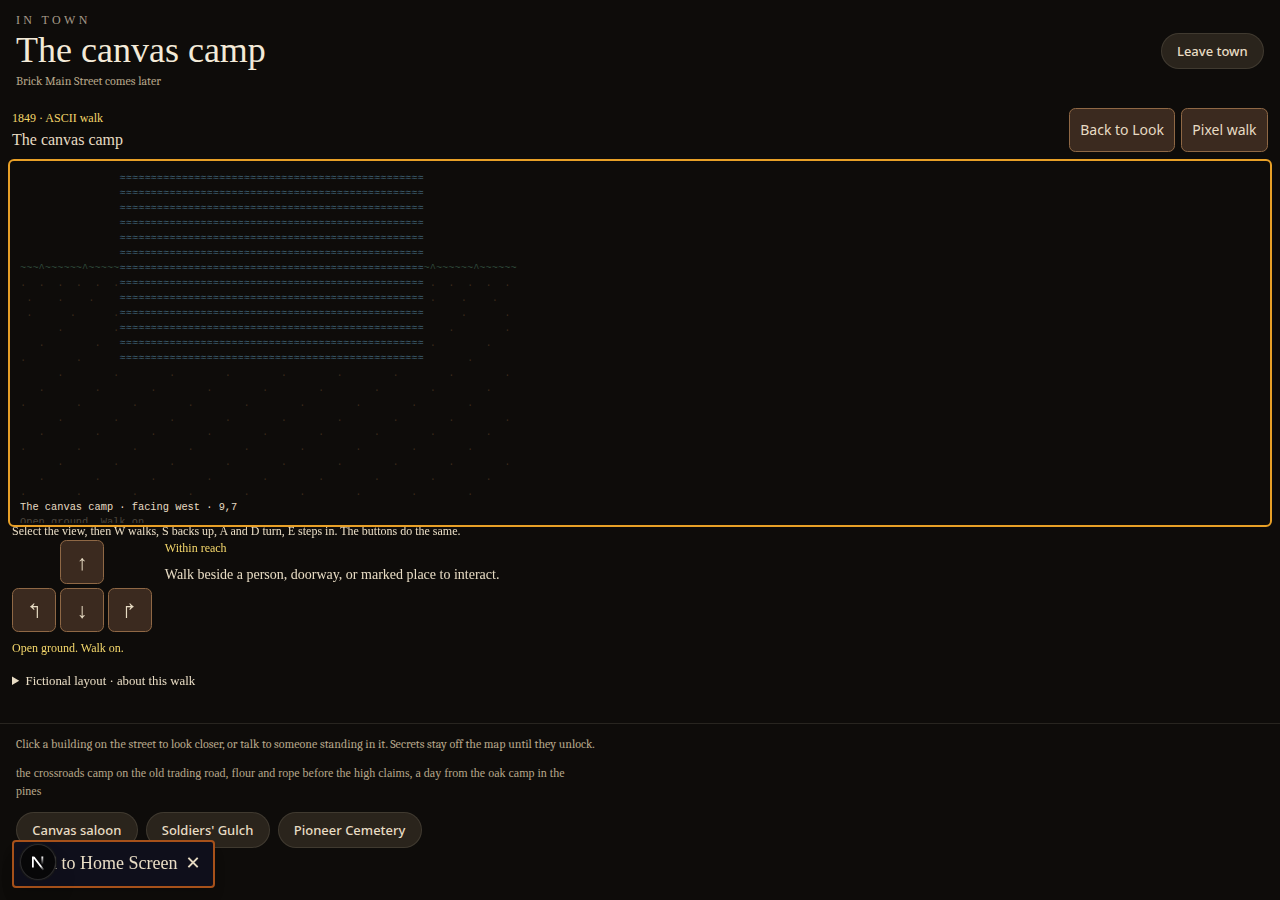
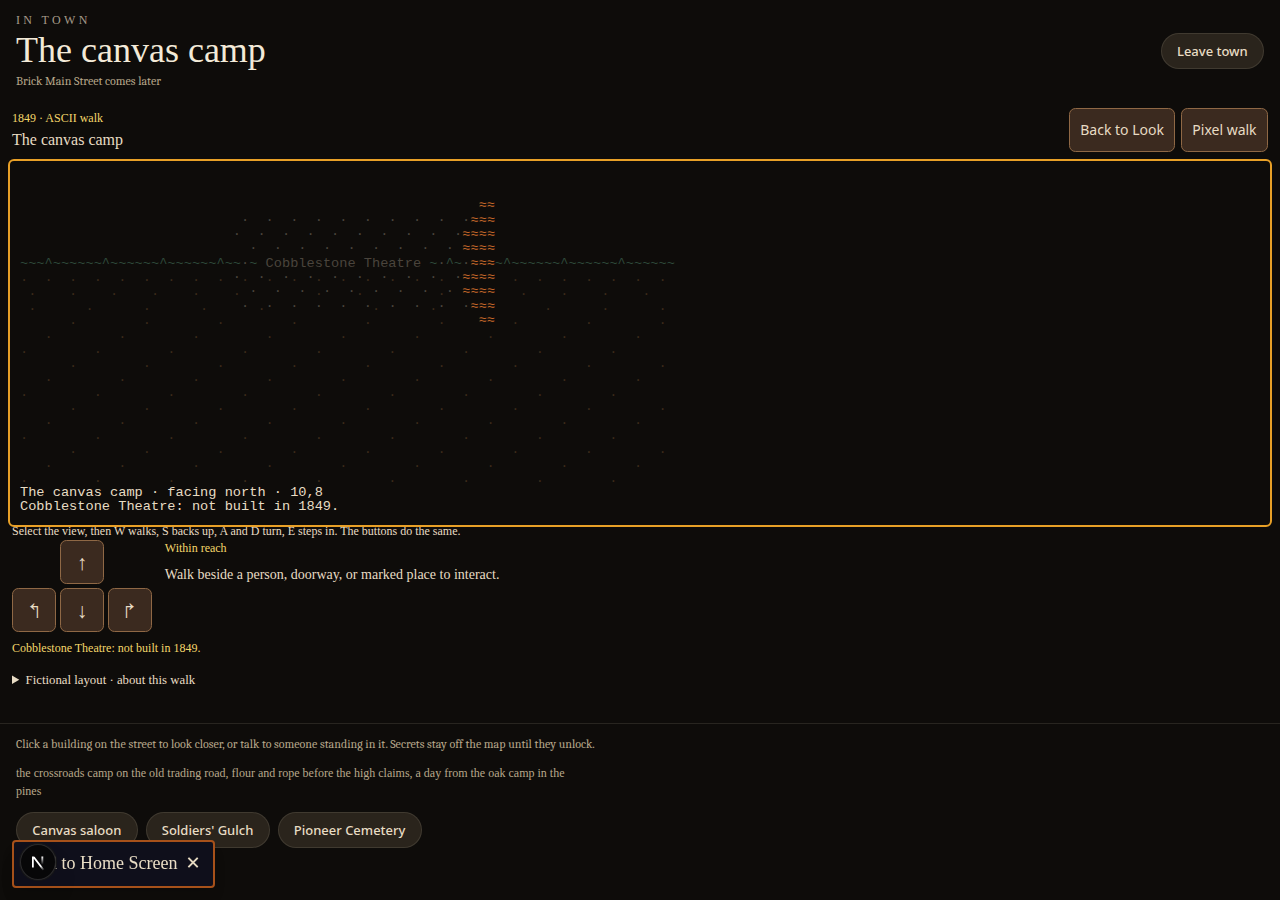
fix(explore): show the whole ascii2 frame, and pin the claims two labs broke
Grok and Codex reviewed PR #94 read-only (neoma-council run
20260918_082706_bobr-pr94-review). Every finding was re-checked before acting.

- The frame's last row, the caption that names the year, was hidden: 16px
  on desktop, 103px on a phone. `.visual64-shell span { line-height: 1.45 }`
  overrode the frame's 1.05 on every row span. Spans now inherit the frame's
  line height inline, and glyph size and box height share one budget.
- The browser check measured the buttons but never the frame. It now asks
  what is painted at the last row (6 FAILs before the fix, 0 after), holds
  the walk to 5 tiles, shoots the absence line while it is showing, and
  drives West Point too: 58 checks, 0 findings.
- The parity test now pins 5 refusals across creek, fire, canvas and a
  person, ending at 8,4. The West Point fixture is asserted, not `if`-guarded.
  Both mutants passed the old test and fail the new one.
- scripts/ascii2-mutants.mjs + a behaviour-fingerprint probe, committed so
  the count can be re-run: 8 scored, 8 caught, 0 no-op. Last night's 15/15
  came from a harness that no longer exists and is marked unreproducible.
- Notes: corrected "the camera owns no geometry" (ghost placement is an
  authored overlay); traced brief 6.2 (explorer state has no cloud path, so
  it is a product decision, not a field add); recorded what was refuted
  (Codex's npm test failure was Node 18 against an engines floor of 20.9).

Changed region(s): [[0.0938, 0.1867, 0.4062, 0.4044], [0.0, 0.5289, 0.375, 0.6533], [0.0, 0.7156, 0.1562, 0.7778]]

diff --git a/src/components/explore/Ascii2Viewport.tsx b/src/components/explore/Ascii2Viewport.tsx
@@ -19,11 +19,14 @@ import {
   turnHeading,
   FRAME_COLS,
   FRAME_COLS_NARROW,
+  FRAME_ROWS,
   type Heading,
 } from '@/lib/ascii2Walk'
 import { ascii2TownFor } from '@/lib/ascii2Towns'
 import { adjacentTownWalkTargets, townWalkMap, type TownWalkSnapshot, type TownWalkTarget } from '@/lib/townWalk'
 import styles from './TownWalkScene.module.css'
+
+const LINE_HEIGHT = 1.05
 
 export interface Ascii2ViewportProps {
   snapshot: TownWalkSnapshot
@@ -88,6 +91,11 @@ export function Ascii2Viewport({
     (target.kind === 'npc' ? allowedNpcIds.includes(target.npcId) : allowedAttractionIds.includes(target.attractionId))
 
   const frame = renderFrame(scene, snapshot.position, heading, allowed, { cols })
+  // One height budget for the box AND the glyphs, so 24 rows always fit the box
+  // they are drawn in. Two budgets that merely agreed on desktop hid 16px of frame
+  // there and 103px on a phone — the caption row that names the year among it.
+  const budgetVh = cols === FRAME_COLS_NARROW ? 28 : 40
+  const fontSize = `clamp(6px, min(${(95 / cols).toFixed(2)}vw, calc((${budgetVh}vh - 1rem) / ${(FRAME_ROWS * LINE_HEIGHT).toFixed(2)})), 15px)`
   const nearby = adjacentTownWalkTargets(scene.map, snapshot.position).filter(allowed)
 
   const walk = (back = false) => {
@@ -185,7 +193,8 @@ export function Ascii2Viewport({
           data-heading={heading}
           data-x={snapshot.position.x}
           data-y={snapshot.position.y}
-          className="max-h-[28vh] w-full overflow-auto bg-[#0e0c0a] p-2 outline-none sm:max-h-[40vh]"
+          className="w-full overflow-auto bg-[#0e0c0a] p-2 outline-none"
+          style={{ maxHeight: `${budgetVh}vh` }}
         >
           {/*
             The frame is 80x24 of fixed geometry, so it must SCALE to the screen
@@ -196,8 +205,8 @@ export function Ascii2Viewport({
             phone, which the browser check now measures directly.
           */}
           <pre
-            className="m-0 font-mono leading-[1.05]"
-            style={{ fontSize: `clamp(6px, min(${(95 / cols).toFixed(2)}vw, 1.15vh), 15px)` }}
+            className="m-0 font-mono"
+            style={{ fontSize, lineHeight: LINE_HEIGHT }}
             data-cols={cols}
             aria-hidden="true"
           >
@@ -207,10 +216,15 @@ export function Ascii2Viewport({
               copy — with block spans the whole 24-row frame copied out as one
               run-on line. (Caught by the browser check, which counted 1 row.)
             */}
+            {/*
+              `lineHeight: inherit` on every span, inline so it outranks the global
+              `.visual64-shell span { line-height: 1.45 }` (globals.css), which was
+              silently making each row 1.45x the font instead of the frame's 1.05x.
+            */}
             {frame.rows.map((row, r) => (
-              <span key={r}>
+              <span key={r} style={{ lineHeight: 'inherit' }}>
                 {mergeSpans(row).map((s, i) => (
-                  <span key={i} style={{ color: s.color }}>
+                  <span key={i} style={{ color: s.color, lineHeight: 'inherit' }}>
                     {s.text}
                   </span>
                 ))}

diff --git a/src/lib/ascii2Walk.test.ts b/src/lib/ascii2Walk.test.ts
@@ -98,14 +98,32 @@ for (const [townId, town] of Object.entries(ASCII2_TOWNS)) {
     'up', 'up', 'left', 'left', 'up', 'up', 'right', 'right', 'right',
     'down', 'down', 'left', 'up', 'up', 'up', 'left', 'left', 'down',
   ]
+  const step = { up: [0, -1], down: [0, 1], left: [-1, 0], right: [1, 0] } as const
   let pixel = { ...snap.position }
   let ascii = { ...snap.position }
+  const refusedBy: string[] = []
   keys.forEach((k, i) => {
+    const before = pixel
     pixel = stepTownWalk(map, pixel, k)
     ascii = ascii2Forward(scene, ascii, k).position
     assert.deepEqual(ascii, pixel, `presentations parted company at key ${i} (${k})`)
+    if (pixel.x === before.x && pixel.y === before.y) {
+      const into = { x: before.x + step[k][0], y: before.y + step[k][1] }
+      const tile = townWalkTileAt(map, into)
+      const npc = map.targets.some((t) => t.kind === 'npc' && t.position.x === into.x && t.position.y === into.y)
+      refusedBy.push(npc ? 'npc' : tile?.prop ?? tile?.terrain ?? 'edge')
+    }
   })
-  assert.notDeepEqual(pixel, snap.position, 'the parity walk must leave the spawn tile')
+  // The notes call this walk "not a stroll". Pin that, or a map edit can quietly
+  // turn it into one: a parity test that never hits an obstacle proves only that
+  // two callers agree on open ground.
+  assert.equal(refusedBy.length, 5, `the parity walk must be refused 5 times, was ${refusedBy.length}: ${refusedBy}`)
+  assert.deepEqual(
+    [...new Set(refusedBy)].sort(),
+    ['canvas', 'fire', 'npc', 'water'],
+    `the refusals must span creek, fire, canvas and a person: ${refusedBy}`,
+  )
+  assert.deepEqual(pixel, { x: 8, y: 4 }, 'the parity walk must end far from spawn, at 8,4')
 }
 
 // ---------------------------------------------------------------------------
@@ -442,9 +460,9 @@ function standSouthOf(scene: Ascii2Scene, id: string): { pos: { x: number; y: nu
   const road = wpScene.map.targets.find((t) => t.kind === 'attraction' && t.attractionId === 'wp_trail_camp')
   assert.ok(road, 'the pack road is a real 1849 target you can reach')
   const beside = { x: road!.position.x, y: road!.position.y + 1 }
-  if (isTownWalkPassable(wpScene.map, beside)) {
-    assert.equal(ascii2Look(wpScene, beside, 'up').kind, 'target', 'the pack road is enterable in 1849')
-  }
+  // An assertion, not an `if`: a guard that is false asserts nothing and still passes.
+  assert.ok(isTownWalkPassable(wpScene.map, beside), 'fixture needs open ground south of the pack road')
+  assert.equal(ascii2Look(wpScene, beside, 'up').kind, 'target', 'the pack road is enterable in 1849')
 }
 
 console.log('ascii2Walk tests passed')

diff --git a/scripts/ascii2-mutant-probe.ts b/scripts/ascii2-mutant-probe.ts
@@ -1,0 +1,42 @@
+/**
+ * ascii2-mutant-probe.ts — a behaviour fingerprint for scripts/ascii2-mutants.mjs.
+ *
+ * Prints one JSON line describing what the ascii2 rung DOES for a fixed set of
+ * inputs: every frame (glyphs AND colours, both widths), every walk outcome, the
+ * ghost placements, and the policy. A mutant that leaves this line unchanged did
+ * not change behaviour, so it is not scored — caught or not, it proved nothing.
+ */
+import { ABSENCE_BLOCKS_DEFAULT, ascii2Forward, ascii2Look, buildAscii2Scene, renderFrame, type Heading } from '../src/lib/ascii2Walk'
+import { ascii2TownFor } from '../src/lib/ascii2Towns'
+import { normalizeTownWalkSnapshot, type TownWalkTarget } from '../src/lib/townWalk'
+
+const headings: Heading[] = ['up', 'right', 'down', 'left']
+const out: unknown[] = [ABSENCE_BLOCKS_DEFAULT]
+for (const townId of ['volcano', 'west_point']) {
+  const snap = normalizeTownWalkSnapshot(townId, undefined)!
+  for (const opts of [{}, { absenceBlocks: true }] as { absenceBlocks?: boolean }[]) {
+    const scene = buildAscii2Scene(ascii2TownFor(townId)!, snap, opts)!
+    out.push(scene.ghosts.map((g) => [g.id, g.position.x, g.position.y]))
+    const onlyExits = (t: TownWalkTarget) => t.kind === 'exit'
+    for (let y = 0; y < scene.map.height; y++) {
+      for (let x = 0; x < scene.map.width; x++) {
+        for (const h of headings) {
+          const f = ascii2Forward(scene, { x, y }, h)
+          out.push([x, y, h, f.position.x, f.position.y, f.blocked ?? '', ascii2Look(scene, { x, y }, h).kind])
+          if ((x + y) % 3 === 0) {
+            for (const cols of [80, 40]) {
+              for (const allowed of [undefined, onlyExits]) {
+                const fr = renderFrame(scene, { x, y }, h, allowed, { cols })
+                out.push(fr.rows.map((r) => r.map((c) => c.ch + c.color).join('')).join('\n'))
+              }
+            }
+          }
+        }
+      }
+    }
+  }
+}
+const s = JSON.stringify(out)
+let hash = 0
+for (let i = 0; i < s.length; i++) hash = (Math.imul(hash, 31) + s.charCodeAt(i)) | 0
+console.log(JSON.stringify({ fingerprint: (hash >>> 0).toString(16), bytes: s.length }))

diff --git a/src/lib/ascii2Walk.ts b/src/lib/ascii2Walk.ts
@@ -3,7 +3,10 @@
  * camera on the 1849 camp. Pure module: no React, no DOM, no fetch.
  *
  * ONE WORLD, MANY PRESENTATIONS — this is the whole point of the ladder, and the
- * reason this file owns no geometry of its own. The world is `townWalk.ts`: the
+ * reason this file owns no MOVEMENT geometry of its own. It does own one overlay:
+ * `placeLaterSites` snaps each later site onto a passable tile of the camp, an
+ * authored position the pixel walk never draws (see its comment). Everything a
+ * player can collide with or enter is still `townWalk.ts`: the
  * authored 1849 tile map, its props, its collisions, its targets, its save
  * snapshot. TownWalkScene draws that world from above in pixels. This module
  * draws the SAME world from eye level in ASCII. Every step here goes through

diff --git a/docs/ASCII2_1849_LADDER_NOTES_20260917.md b/docs/ASCII2_1849_LADDER_NOTES_20260917.md
@@ -22,8 +22,12 @@ against — already carries an authored, sourced, tested 1849 walk for **exactly
 | `src/components/explore/TownWalkScene.tsx` | Draws that world **top-down in pixels** (SVG) |
 | `InteractiveTown` "Walk the camp" | Already wired, after Look, exactly as the 20260913 brief required |
 
-So this branch does **not** author a second geometry. `ascii2Walk.ts` is a **camera**: it draws the
-SAME `townWalk` map at eye level in colored ASCII, and every step goes through `stepTownWalk`. That
+So this branch does **not** author a second movement geometry. `ascii2Walk.ts` is a **camera**: it
+draws the SAME `townWalk` map at eye level in colored ASCII, and every step goes through
+`stepTownWalk`. **One overlay is its own** (corrected 2026-09-18 after Grok's review — the first
+wording said the camera owns no geometry, which was false): `placeLaterSites` snaps each later site's
+painted-pin percentage to the nearest passable, non-target tile. Those tiles are authored, not
+surveyed, and the pixel walk never draws them. Two land awkwardly — see §8. Camera-not-fork
 is the brief's own law — *"One world model. Four presentations… step down, never fork lore"* (§3) —
 applied to the world that actually exists on main rather than to the one the brief predicted.
 
@@ -71,10 +75,10 @@ in the first commit it was not.
 | Gate | Result |
 |---|---|
 | `tsc --noEmit` | clean |
-| `npm test` (full chain, incl. new `test:ascii2-walk`) | **exit 0** |
+| `npm test` (full chain, incl. new `test:ascii2-walk`) | **exit 0** — re-run 2026-09-18 on Node 20.19 (the repo's `engines` floor is 20.9; on `/usr/bin/node` 18 the chain dies at `test:local-backend` with `crypto is not defined`, which is the environment, not the code) |
 | `npm run lint` | **0 errors**, 460 warnings (all pre-existing; repo policy allows warnings) |
 | `npm run build` | **pass** |
-| Mutation suite, fingerprint-gated | **15 applied, 15 caught** |
+| Mutation suite, fingerprint-gated | **8 scored, 8 caught, 0 no-op** — `node scripts/ascii2-mutants.mjs`, committed 2026-09-18. The 2026-09-17 "15 applied, 15 caught" came from a harness that lived in a session scratch folder and is gone; that number is unreproducible and stands at `_conf=-1` |
 
 ### The mutation record, including the ones that escaped first
 
@@ -109,7 +113,9 @@ there.
 
 `scripts/ascii2-walk-browser-check.mjs` drives real headless Chrome through the ranch-house QR gate
 into Volcano, starts the pixel walk, steps down to the text walk, walks with the keyboard, and steps
-back up — asserting on what the page actually shows. **41 checks, 0 findings, 0 console errors.**
+back up — asserting on what the page actually shows. **41 checks, 0 findings, 0 console errors** on
+2026-09-18 early — and that run was **wrong about the frame**: see §8. After the review the check is
+**58 checks, 0 findings, 0 console errors**, and it now also drives West Point.
 Screenshots and `result.json` in `test-reports/ascii2/`. It ran against a dev server on **:3107**, a
 port nobody else was using; `:3103`, `:3099` and `:3338` were not touched.
 
@@ -156,6 +162,21 @@ Notion save blob.** The walk position *is* persisted — `getTownWalk`/`saveTown
 versioned `TownWalkSnapshot` locally — but nothing carries it to the cloud save, and `heading`/`present`
 are deliberately presentation-local (see §5). No round-trip against live Notion was attempted from
 this branch: `_conf=-1`.
+
+**Traced 2026-09-18 — §6.2 is not a field add, so it was not built here.** `saveToCloud`
+(`src/lib/cloudSave.ts`) has exactly **one** caller: `src/app/adventure/play/page.tsx` (the Oregon
+Trail adventure). Explorer progress — `townWalks` included — lives only in localStorage
+`gold_country_explorer_progress` and reaches **no** cloud save at all. Putting the walk into Notion
+therefore means wiring the whole explorer into cloud saves (a new `SaveType`, or grafting explorer
+state onto `adventure_save`), plus a passphrase flow on `/explore` that does not exist. That is an
+architecture and product decision, not the slice this branch owns. Where §6 actually stands:
+
+| §6 item | State |
+|---|---|
+| 6.1 env names present | yes, in `bobr-website/.env.local` (names only) |
+| 6.2 walk position in the save blob | **no cloud path exists for explorer state** — question put to Grok/Codex |
+| 6.3 localStorage offline rung | **yes** — `townWalks` is versioned, normalized, and survives reload |
+| 6.4 Notion down ⇒ play local, don't fake a cloud save | holds trivially: explorer never claims a cloud save |
 
 ## 5. Findings about the brief itself (it was written against a tree 29 commits behind)
 
@@ -219,17 +240,60 @@ Talk to Josiah Bell — within reach.
 ## 7. Still owed
 
 - [x] ~~Browser walk-through plus screenshots in `test-reports/`~~ — done 2026-09-18 on `:3107`
-      (`npm run test:ascii2-browser`, 41 checks, 0 findings). A **human** look is still owed.
+      (`npm run test:ascii2-browser`, now 58 checks, 0 findings, both towns). A **human** look is still owed.
 - [ ] **Device detection (brief §5) — not implemented.** The brief asks Railway to pick rung 0 or 1
       from `navigator.hardwareConcurrency` / WebGL / `deviceMemory`. This branch ships the rung as a
       button only, and pixel stays the default, so nothing auto-selects. Deliberate: changing what a
       phone gets by default is a product call, not a refactor. (Missed from this list in the first
       commit; the verifier caught the omission.)
-- [ ] Notion save field for walk position (§6.2) + a live round-trip.
+- [ ] Notion save for walk position (§6.2) — **blocked on a decision**: explorer state has no cloud
+      path at all (§4, traced 2026-09-18). Whether it should, and under which `SaveType`, is Leif's call.
 - [ ] Volcano canon entry (§5.2 above) with sources.
 - [ ] Voxel rung — blocked on a 1.0.8 jar Leif provides. Nothing to do until then.
 - [ ] Unreal — blocked on "install Unreal now".
-- [ ] **Grok-before / adversarial review of this branch.** Grok is browser-gated (the chrome-bridge
-      extension is disconnected as of this morning's health check) and Codex is out of tokens, so
-      neither lab reviewed this. A fresh-context verifier subagent read the diff against the brief's
-      §2 non-negotiables instead — that is **not** a substitute for the two labs. `_conf=0`.
+- [x] ~~Grok-before / adversarial review of this branch~~ — done 2026-09-18, both labs, see §8.
+- [ ] **A human look** — the one gate no machine closes. See §8 for what to look at.
+
+## 8. Two-lab review, 2026-09-18 — what held, what broke, what I refuted
+
+Run `neoma-council 20260918_082706_bobr-pr94-review`: Grok (grok-4.6) and Codex (gpt-5.5), read-only,
+same prompt, told to break claims rather than agree. **Both returned CHANGES-NEEDED; both endorsed the
+design** (camera-not-fork; keep `ABSENCE_BLOCKS_DEFAULT = false`; don't graft explorer onto
+`adventure_save`; device auto-detect is not load-bearing while there is only one rung to pick).
+Every finding below was re-checked against the code or a live run before it was acted on.
+
+**Broke, and fixed on this branch:**
+
+| Finding (who) | What was actually true | Fix |
+|---|---|---|
+| The frame's last row — the caption that names the year — was hidden (Grok, from `03-ascii2-walk.png`) | Real, and **worse than the screenshot**: 16px hidden on desktop, **103px on a phone**. Cause: `.visual64-shell span { line-height: 1.45 }` in `globals.css` overrode the frame's 1.05 on every row span, so rows were 1.45× the font. My 41 checks measured the buttons, never the frame. | `lineHeight: inherit` inline on every frame span; glyph size and box height now come from **one** budget. New `frameFits` check asks what is painted at the last row. Before the fix it reported 6 FAILs; after, 0. |
+| "5 refusals, 4 obstacle kinds" was prose; the test only checked parity + left-spawn (Grok) | Real. Removing the fire left the old test green (**measured**: old test rc=0 on that mutant). | Parity test now pins 5 refusals, `{canvas, fire, npc, water}`, end at 8,4. |
+| West Point pack-road assertion sat inside an `if` (Grok) | Real. Blocking that tile left the old test green (**measured**: rc=0). | `assert.ok` on the fixture, then the assertion. |
+| Browser: "5 distinct tiles" claimed, `seen.size > 1` checked; `note(true, …)` could not fail; `04-absence-line.png` shot after the line had gone (Grok) | Real, all three. | `>= 5`; both `note(true)` now test something; the shot is taken while the line shows. |
+| West Point never driven in a browser (Grok) | Real. | Second pass: toggle parity, 24 lines, frame fit, 8 tiles walked, "Main Street walk: not built in 1849." |
+| "15/15 caught" not reproducible (Grok) | Real — the harness was in a deleted session scratch folder. | `scripts/ascii2-mutants.mjs` + behaviour probe, committed: **8 scored, 8 caught, 0 no-op**. Two of the 8 are caught only by today's new assertions. |
+| "The camera owns no geometry" (Grok) | False as worded — ghost placement is an authored overlay. | Wording corrected in §1 and in the module header. |
+
+**Refuted (checked, did not hold):**
+- *`npm test` exits 1* (Codex) — Codex ran `/usr/bin/node` **18.19.1**; the repo needs ≥20.9. On Node 20
+  the whole chain exits 0 (21.8s, 2026-09-18). The failing test is main's (#90), not this branch's.
+- *The §6 dump is not "two tiles south" of the St. George* (Grok) — the dump's own compass reads `5,7`
+  and the ghost sits at `5,5`: two tiles. Grok compared it to the test fixture at `5,6`.
+- *"Facing survives the toggle" is half-true* (Grok) — these notes never claim facing carries, only
+  position. The observation underneath is real, though, and is in Leif's list below.
+
+**Left for Leif — judgement calls, not bugs:**
+1. **Where two ghosts land.** The Cobblestone Theatre snaps to `(10,5)`, the road straight north of
+   spawn, so the text walk's very first line is *"Cobblestone Theatre: not built in 1849."* The St.
+   George snaps to `(5,5)`, the canvas saloon's doorstep, so standing in the hotel's mist and pressing E
+   walks you into the 1849 saloon (true to 1849, and odd to stand in). Grok's advice: don't hand-author
+   a survey to fix it. Moving them is a one-line data change if you want it.
+2. **W means different things in the two walks.** Pixel: W = north (map-relative). Text: W = forward
+   (first-person). Switching carries your tile, not your facing — pixel starts facing south, text
+   north. Deliberate for a first-person view; say if you'd rather it matched.
+3. **Explorer → Notion** (§4): whether the explore game should cloud-save at all, and under a new
+   `SaveType` (both labs: new type, never `adventure_save`).
+4. **Device auto-detect** (brief §5): both labs say it can wait until there is a second rung to pick.
+5. **Is it good to look at?** The frame is mostly sky and ground dots with the town in a band across
+   the middle. That is taste, and it is yours.
+
